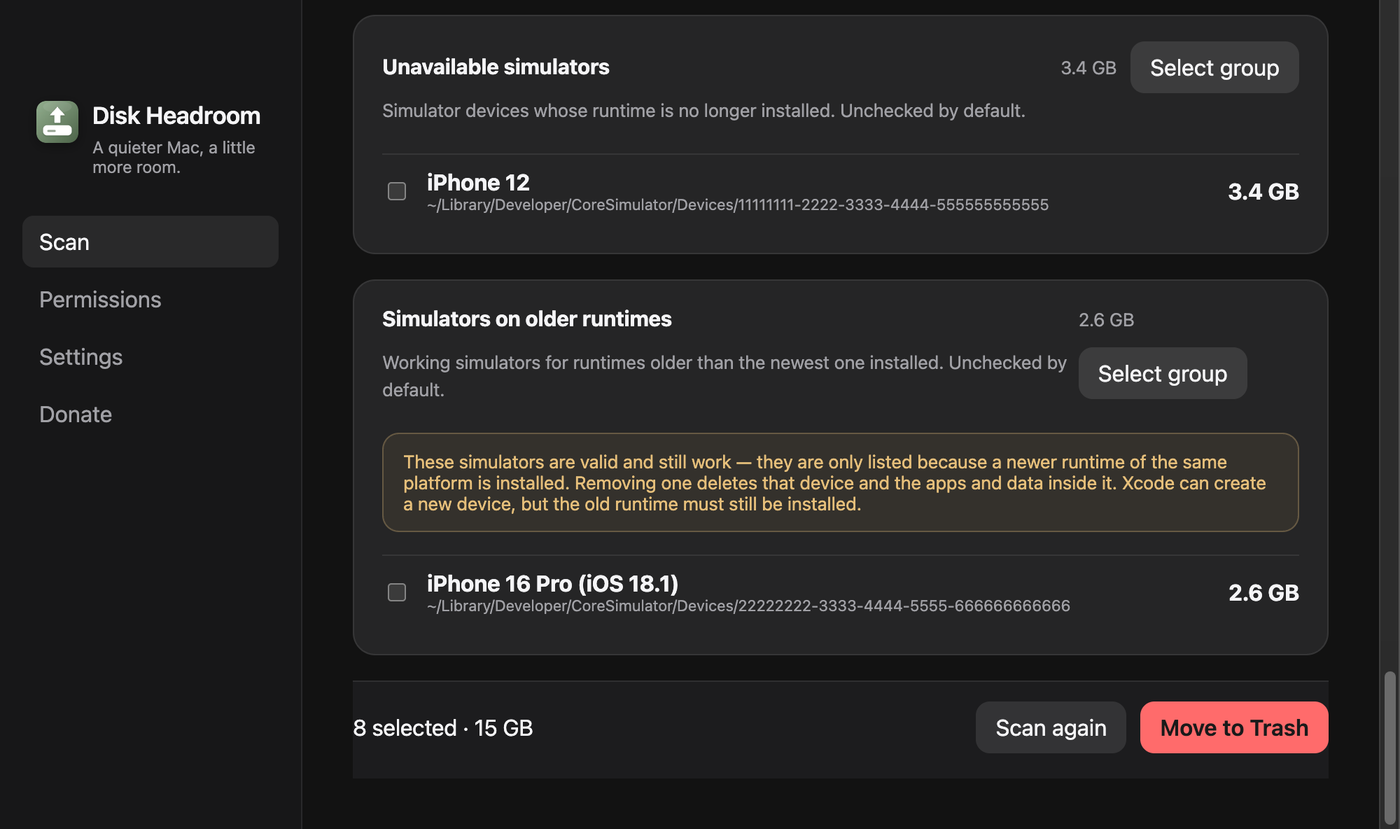
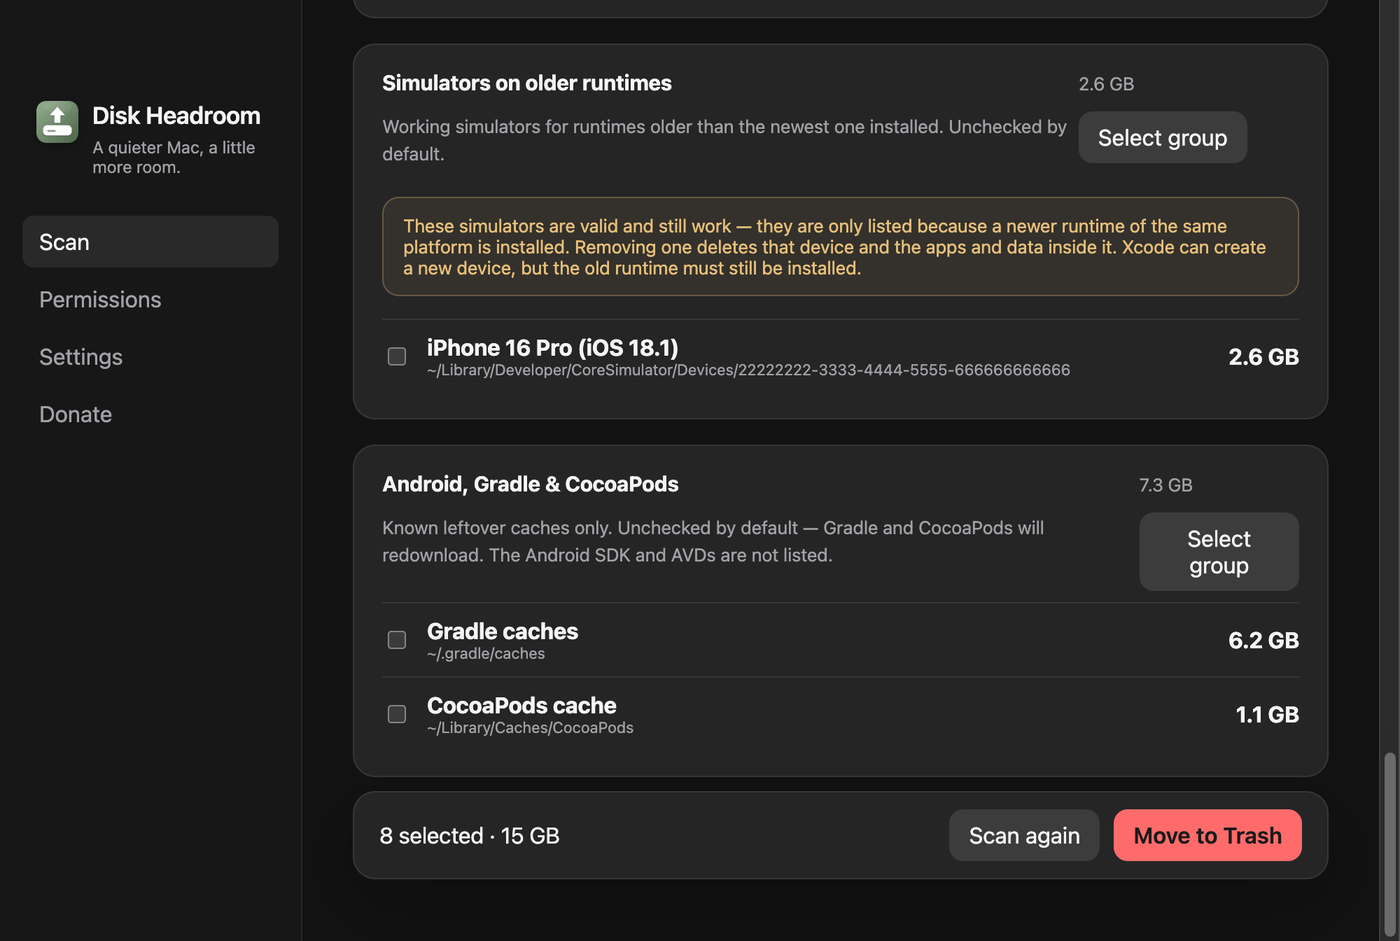
feat: scan opt-in Android, Gradle and CocoaPods caches
Adds a conservative leftover group for mobile toolchains, following the
Homebrew and Xcode pattern: known roots only, unchecked by default, and
nothing but Trash through isSafePath.

Scanned roots: ~/.gradle/caches, ~/.gradle/wrapper/dists, the CocoaPods
cache, ~/.android/cache and the Android SDK .temp/cache dirs. The SDK
install and AVDs stay out, and there is no home-wide search for build/
folders. CocoaPods is skipped in the user-cache walk so it cannot come
back selected by default.

Also frees the results action bar from the window edges: it was sticky at
bottom -36px, which ate the content padding and glued it to the viewport.
It is now a floating panel inset like the cards, with the screenshots
reframed so the bar no longer slices a row in half.

Closes #7

diff --git a/tests/scanner.test.ts b/tests/scanner.test.ts
@@ -87,7 +87,10 @@ describe('path safety', () => {
     ['/Users/test/Library/Caches/x', true],
     ['/Applications/Foo.app', true],
     ['/Users/test/Library/Containers/com.docker.docker/Data/vms/0/data/Docker.raw', true],
-    ['/Users/test/.docker/buildx', true]
+    ['/Users/test/.gradle/caches', true],
+    ['/Users/test/Library/Caches/CocoaPods', true],
+    ['/Users/test/.android/cache', true],
+    ['/Users/test/Library/Android/sdk/cache', true]
   ])('classifies %s', (path, safe) => {
     expect(isSafePath(path)).toBe(safe)
   })
@@ -161,8 +164,9 @@ describe('runScan', () => {
       'Never'
     ])
     expect(result.items.every((item) => item.bytes > 0)).toBe(true)
-    expect(progress).toHaveBeenCalledTimes(9)
+    expect(progress).toHaveBeenCalledTimes(10)
     expect(progress).toHaveBeenCalledWith({ phase: 'progress.packageManagers', percent: 44 })
+    expect(progress).toHaveBeenCalledWith({ phase: 'progress.androidDev', percent: 68 })
     expect(progress).toHaveBeenCalledWith({ phase: 'progress.docker', percent: 72 })
     expect(progress).toHaveBeenLastCalledWith({ phase: 'progress.done', percent: 100 })
   })
@@ -395,6 +399,50 @@ describe('runScan', () => {
     )
     expect(packageItems.every((item) => item.bytes > 0)).toBe(true)
     expect(result.items.some((item) => item.path === missingNpm)).toBe(false)
+  })
+
+  it('scans known Android, Gradle and CocoaPods leftover caches as opt-in', async () => {
+    const home = '/Users/test'
+    const caches = `${home}/Library/Caches`
+    const gradle = `${home}/.gradle/caches`
+    const cocoapods = `${caches}/CocoaPods`
+    const sdkCache = `${home}/Library/Android/sdk/cache`
+    const sdkRoot = `${home}/Library/Android/sdk`
+    const avd = `${home}/.android/avd`
+    const missingAndroidCache = `${home}/.android/cache`
+
+    mocks.readdir.mockImplementation(async (path: string) => {
+      if (path === caches) return ['CocoaPods', 'good']
+      if (path === gradle || path === cocoapods || path === sdkCache) return ['payload']
+      if (path === '/Applications' || path === `${home}/Applications`) return []
+      return []
+    })
+    mocks.lstat.mockImplementation(async (path: string) => {
+      if (path === missingAndroidCache || path === sdkRoot || path === avd) throw new Error('missing')
+      if (path.endsWith('/payload') || path.endsWith('/good')) return file(200)
+      return directory
+    })
+
+    const result = await runScan(90, vi.fn())
+    const userCacheNames = result.items
+      .filter((item) => item.categoryId === 'userCaches')
+      .map((item) => item.name)
+    const mobileItems = result.items.filter((item) => item.categoryId === 'androidDevCaches')
+
+    expect(userCacheNames).toEqual(['good'])
+    expect(mobileItems.map((item) => item.nameKey)).toEqual([
+      'category.androidDevCaches.gradle',
+      'category.androidDevCaches.cocoapods',
+      'category.androidDevCaches.sdkCache'
+    ])
+    expect(mobileItems.map((item) => item.path)).toEqual([gradle, cocoapods, sdkCache])
+    expect(mobileItems.every((item) => item.selectedByDefault === false && item.optional === true)).toBe(
+      true
+    )
+    expect(mobileItems.every((item) => item.bytes > 0)).toBe(true)
+    expect(result.items.some((item) => item.path === missingAndroidCache)).toBe(false)
+    expect(result.items.some((item) => item.path === sdkRoot)).toBe(false)
+    expect(result.items.some((item) => item.path === avd)).toBe(false)
   })
 
   it('returns an empty limited result when roots are inaccessible', async () => {

diff --git a/src/main/scanner.ts b/src/main/scanner.ts
@@ -15,6 +15,7 @@ const BLOCKED_PREFIXES = ['/System', '/usr/sbin', '/bin', '/sbin', '/private/var
 
 /** Top-level ~/Library/Caches names scanned as Homebrew or package-manager leftovers. */
 const USER_CACHE_SKIP = new Set([
+  'CocoaPods',
   'Homebrew',
   'bun',
   'go-build',
@@ -62,6 +63,9 @@ export async function runScan(unusedDays: UnusedDays, onProgress: ProgressFn): P
 
   onProgress({ phase: 'progress.xcode', percent: 64 })
   items.push(...(await scanXcodeLeftovers(home)))
+
+  onProgress({ phase: 'progress.androidDev', percent: 68 })
+  items.push(...(await scanAndroidDevCaches(home)))
 
   onProgress({ phase: 'progress.docker', percent: 72 })
   items.push(...(await scanDockerDesktop(home)))
@@ -323,6 +327,37 @@ async function scanPackageManagerCaches(home: string): Promise<ScanItem[]> {
       ...(await scanIfExists(
         join(home, ...root.segments),
         'packageManagerCaches',
+        root.nameKey,
+        false,
+        true
+      ))
+    )
+  }
+  return items
+}
+
+type AndroidDevRoot = { segments: string[]; nameKey: TranslationKey }
+
+/**
+ * Known leftover roots only — never ~/Library/Android/sdk, ~/.android/avd,
+ * or a home-wide search for build/ folders.
+ */
+const ANDROID_DEV_ROOTS: AndroidDevRoot[] = [
+  { segments: ['.gradle', 'caches'], nameKey: 'category.androidDevCaches.gradle' },
+  { segments: ['.gradle', 'wrapper', 'dists'], nameKey: 'category.androidDevCaches.gradleWrapper' },
+  { segments: ['Library', 'Caches', 'CocoaPods'], nameKey: 'category.androidDevCaches.cocoapods' },
+  { segments: ['.android', 'cache'], nameKey: 'category.androidDevCaches.androidCache' },
+  { segments: ['Library', 'Android', 'sdk', '.temp'], nameKey: 'category.androidDevCaches.sdkTemp' },
+  { segments: ['Library', 'Android', 'sdk', 'cache'], nameKey: 'category.androidDevCaches.sdkCache' }
+]
+
+async function scanAndroidDevCaches(home: string): Promise<ScanItem[]> {
+  const items: ScanItem[] = []
+  for (const root of ANDROID_DEV_ROOTS) {
+    items.push(
+      ...(await scanIfExists(
+        join(home, ...root.segments),
+        'androidDevCaches',
         root.nameKey,
         false,
         true

diff --git a/tests/App.test.tsx b/tests/App.test.tsx
@@ -265,6 +265,48 @@ describe('App', () => {
     expect(screen.getByRole('button', { name: 'Move to Trash' })).toBeDisabled()
   })
 
+  it('shows Android, Gradle and CocoaPods leftovers unchecked by default', async () => {
+    const androidResult = {
+      ...result,
+      items: [
+        {
+          id: 'gradle',
+          categoryId: 'androidDevCaches' as const,
+          name: '',
+          nameKey: 'category.androidDevCaches.gradle' as const,
+          path: '/Users/test/.gradle/caches',
+          bytes: 4096,
+          selectedByDefault: false,
+          optional: true,
+          lastUsedAt: null,
+          daysIdle: null
+        },
+        {
+          id: 'pods',
+          categoryId: 'androidDevCaches' as const,
+          name: '',
+          nameKey: 'category.androidDevCaches.cocoapods' as const,
+          path: '/Users/test/Library/Caches/CocoaPods',
+          bytes: 2048,
+          selectedByDefault: false,
+          optional: true,
+          lastUsedAt: null,
+          daysIdle: null
+        }
+      ]
+    }
+    window.diskheadroom = api({ runScan: vi.fn().mockResolvedValue(androidResult) })
+    const user = userEvent.setup()
+    render(<App />)
+    await user.click(await screen.findByRole('button', { name: 'Scan this Mac' }))
+
+    expect(await screen.findByRole('heading', { name: 'Android, Gradle & CocoaPods' })).toBeInTheDocument()
+    expect(screen.getByText('Gradle caches')).toBeInTheDocument()
+    expect(screen.getByText('CocoaPods cache')).toBeInTheDocument()
+    expect(screen.getAllByRole('checkbox').every((box) => !(box as HTMLInputElement).checked)).toBe(true)
+    expect(screen.getByRole('button', { name: 'Move to Trash' })).toBeDisabled()
+  })
+
   it('keeps the disk panel on results and rereads free space when refocused', async () => {
     const bridge = api({
       getDiskInfo: vi

diff --git a/src/renderer/src/styles.css b/src/renderer/src/styles.css
@@ -399,15 +399,19 @@ code {
 
 .footer-bar {
   position: sticky;
-  bottom: -36px;
+  bottom: 8px;
+  z-index: 5;
   display: flex;
   justify-content: space-between;
   align-items: center;
   gap: 16px;
-  margin-top: 4px;
-  padding: 14px 0 18px;
-  background: var(--bg);
-  border-top: 1px solid var(--line);
+  margin-top: 18px;
+  padding: 12px 18px;
+  border: 1px solid var(--line);
+  border-radius: 16px;
+  background: var(--bg-elevated);
+  backdrop-filter: blur(24px);
+  box-shadow: var(--shadow);
 }
 
 select {

diff --git a/tests/shared.test.ts b/tests/shared.test.ts
@@ -26,7 +26,7 @@ describe('shared helpers', () => {
     expect(LOCALES).toEqual(['en', 'pt-BR', 'es'])
     expect(LOCALE_NAMES['pt-BR']).toContain('Português')
     expect(NAV).toHaveLength(4)
-    expect(Object.keys(CATEGORY_META)).toHaveLength(13)
+    expect(Object.keys(CATEGORY_META)).toHaveLength(14)
     expect(UNUSED_DAY_OPTIONS).toContain(DEFAULT_UNUSED_DAYS)
   })
 })

diff --git a/src/renderer/src/lib/copy.ts b/src/renderer/src/lib/copy.ts
@@ -53,6 +53,10 @@ export const CATEGORY_META: Record<
     title: 'category.dockerDesktop.title',
     hint: 'category.dockerDesktop.hint'
   },
+  androidDevCaches: {
+    title: 'category.androidDevCaches.title',
+    hint: 'category.androidDevCaches.hint'
+  },
   unusedApps: {
     title: 'category.unusedApps.title',
     hint: 'category.unusedApps.hint'

diff --git a/src/shared/types.ts b/src/shared/types.ts
@@ -14,6 +14,7 @@ export type ScanCategoryId =
   | 'outdatedSimulators'
   | 'coreSimulatorCaches'
   | 'dockerDesktop'
+  | 'androidDevCaches'
   | 'unusedApps'
 
 export interface ScanItem {

diff --git a/README.md b/README.md
@@ -29,7 +29,7 @@ All work stays on your Mac. There is no account, no telemetry, and no cloud.
 
 ## Who it is for
 
-People who want a little more room on a Mac they already own — developers with Xcode leftovers, Homebrew users with a fat cache, or anyone whose SSD has been quietly filling up.
+People who want a little more room on a Mac they already own — developers with Xcode, Android, or CocoaPods leftovers, Homebrew users with a fat cache, or anyone whose SSD has been quietly filling up.
 
 If you need forensic deletion, secure erase, or Windows/Linux, this is not that tool.
 
@@ -37,14 +37,14 @@ If you need forensic deletion, secure erase, or Windows/Linux, this is not that 
 
 | Scan | Review before cleaning |
 | --- | --- |
-| <img src="docs/screenshots/scan.png" alt="Scan screen showing free space on the startup disk" width="440"> | <img src="docs/screenshots/results.png" alt="Scan results grouped by category with checkboxes and total selected" width="440"> |
+| <img src="docs/screenshots/scan.png" alt="Scan screen showing free space on the startup disk" width="440"> | <img src="docs/screenshots/results.png" alt="Scan results grouped by category with checkboxes, and a floating bar with the total selected and the Move to Trash button" width="440"> |
 
 | System access | Settings |
 | --- | --- |
 | <img src="docs/screenshots/permissions.png" alt="Permissions screen listing Full Disk Access, user library caches, and Applications folder" width="440"> | <img src="docs/screenshots/settings.png" alt="Settings screen with idle app window and language pickers" width="440"> |
 
 <p align="center">
-  <img src="docs/screenshots/developer.png" alt="Optional developer groups showing unavailable simulators and simulators on older runtimes, all unchecked, with a warning that those simulators still work" width="560">
+  <img src="docs/screenshots/developer.png" alt="Optional developer groups showing simulators on older runtimes and Android, Gradle and CocoaPods caches, all unchecked, with a warning that those simulators still work" width="560">
 </p>
 
 <p align="center">
@@ -63,6 +63,7 @@ The captures come from `npm run screenshots`, which renders the real UI against 
 | Homebrew | `~/Library/Caches/Homebrew` when present |
 | Trash | Current Trash contents (so you can empty with eyes open) |
 | Xcode (opt-in) | DerivedData, iOS DeviceSupport, Archives, CoreSimulator caches, unavailable simulators, and simulators on older runtimes — **unchecked** until you choose them |
+| Android / Gradle / CocoaPods (opt-in) | `~/.gradle/caches`, CocoaPods cache, and conservative Android SDK leftover dirs — **unchecked**; the SDK install and AVDs are never listed |
 | Docker Desktop (opt-in) | Disk image and Buildx cache — **unchecked**, warning that images, containers, and volumes can be lost |
 | Idle apps | `/Applications` and `~/Applications`, skipping Apple system bundles |
 | Menu bar | Open, Scan now, Donate, Quit |
